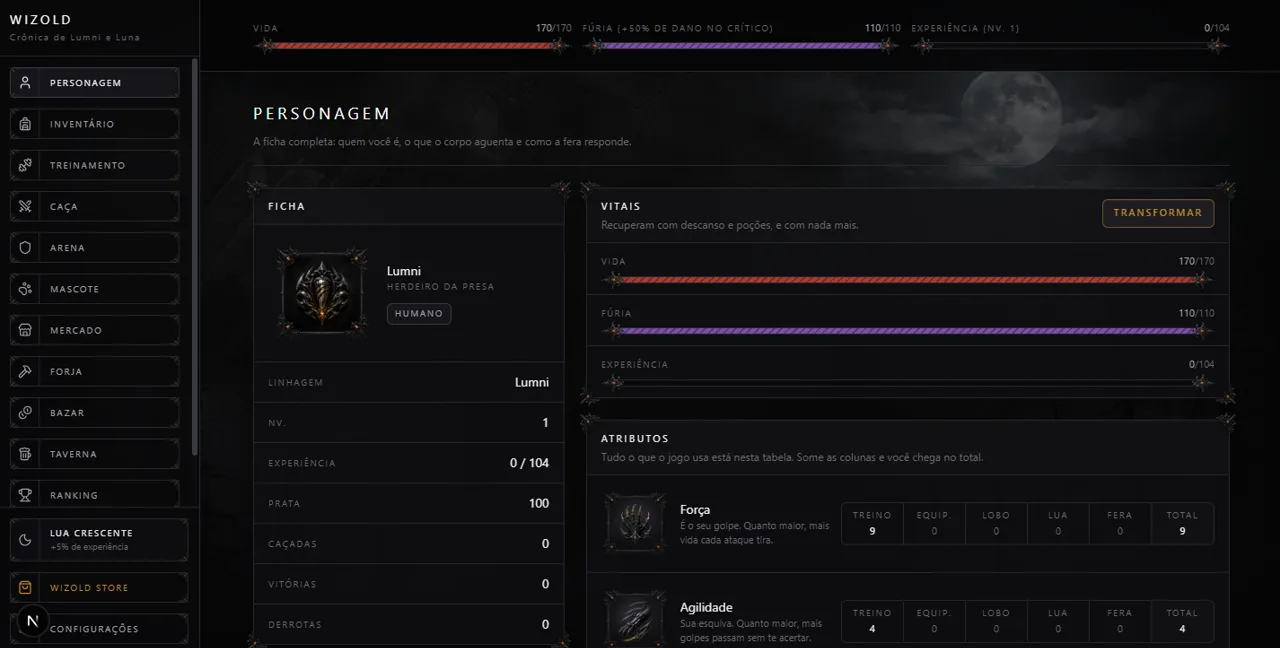
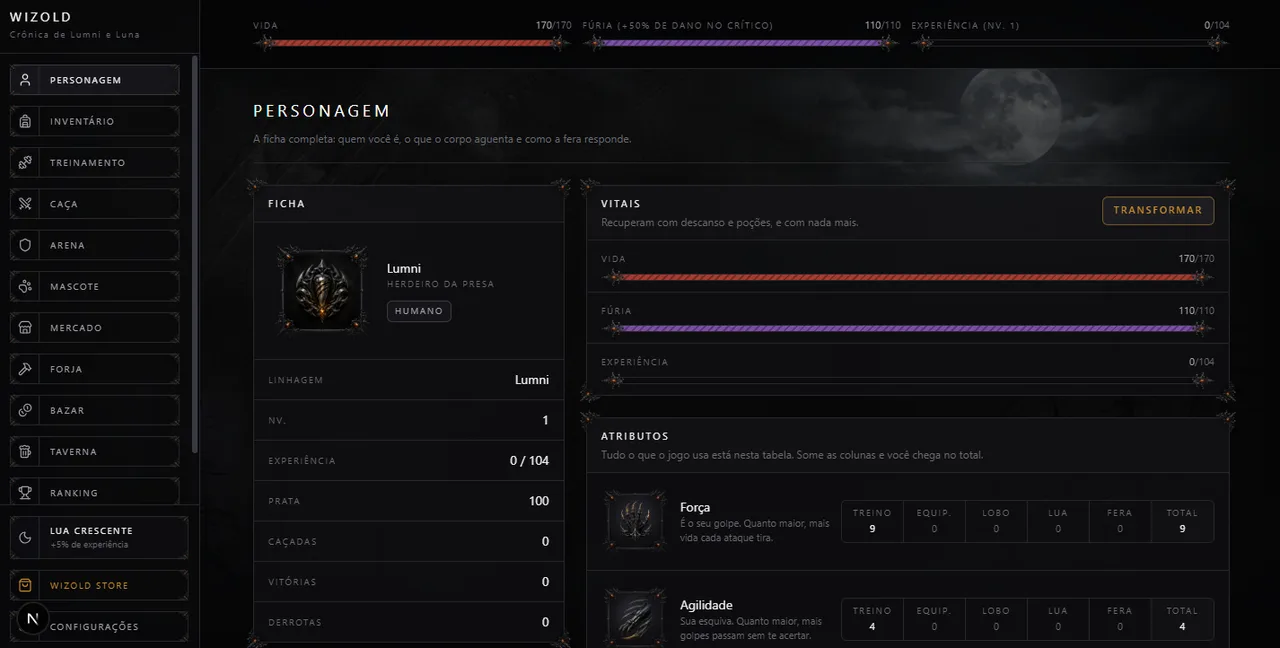
Tour da landing com as cinco prints novas: a arena entra como quinta tela e os caminhos ganham versao para furar o cache imutavel

diff --git a/src/models/data/preview.ts b/src/models/data/preview.ts
@@ -14,7 +14,7 @@ export const PREVIEW_SHOTS: readonly PreviewShot[] = [
     text:
       "Cada atributo mostra de onde veio cada ponto: treino, equipamento, lobo, lua e fera em " +
       "colunas separadas. Some com o dedo e você chega no total.",
-    image: "/assets/landing/character.webp",
+    image: "/assets/landing/character.webp?v=2",
   },
   {
     key: "training",
@@ -23,7 +23,7 @@ export const PREVIEW_SHOTS: readonly PreviewShot[] = [
     text:
       "Só a fera treina, uma sessão por clique e bronze a cada uma: é o único jeito de mover um " +
       "atributo. Subir de nível não dá poder, dá permissão.",
-    image: "/assets/landing/training.webp",
+    image: "/assets/landing/training.webp?v=2",
   },
   {
     key: "hunt",
@@ -32,7 +32,16 @@ export const PREVIEW_SHOTS: readonly PreviewShot[] = [
     text:
       "A caçada roda em rodadas, narrada golpe a golpe, e a presa cresce junto com você dentro " +
       "da faixa do território. Transforme-se antes: em pele humana o campo recusa.",
-    image: "/assets/landing/hunt.webp",
+    image: "/assets/landing/hunt.webp?v=2",
+  },
+  {
+    key: "arena",
+    label: "Arena",
+    title: "O fosso: a caça virada contra a matilha",
+    text:
+      "Outro caçador do plantel no lugar da presa, os dois transformados, golpe a golpe. Três " +
+      "duelos por dia e só o bronze troca de mãos: nível se ganha na trilha, nunca no fosso.",
+    image: "/assets/landing/arena.webp?v=2",
   },
   {
     key: "market",
@@ -41,6 +50,6 @@ export const PREVIEW_SHOTS: readonly PreviewShot[] = [
     text:
       "Do bronze ao lunar, e uma peça só empresta atributo: o que o card promete é exatamente o " +
       "que a ficha soma e o que a luta lê. O resto é forja, mina e paciência.",
-    image: "/assets/landing/market.webp",
+    image: "/assets/landing/market.webp?v=2",
   },
 ];

diff --git a/src/views/screens/landing.screen.tsx b/src/views/screens/landing.screen.tsx
@@ -165,7 +165,7 @@ export function LandingScreen() {
           <div className="space-y-1 text-center">
             <h2 className="heading text-[11px] text-ink">Por dentro do jogo</h2>
             <p className="text-xs text-ink-faint">
-              Quatro telas da mesma noite, do jeito que elas aparecem no navegador.
+              Cinco telas da mesma noite, do jeito que elas aparecem no navegador.
             </p>
           </div>
 
